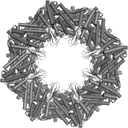
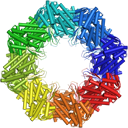
changed player graphics. found the evil AA -> bug should be fixed now.

diff --git a/Classes/screens/DeeWorldScene.cpp b/Classes/screens/DeeWorldScene.cpp
@@ -16,14 +16,15 @@ USING_NS_CC;
 #define MS_TIME_PLAYER_BLOCKED 0
 #define PLAYER_IMAGE "Player.png"
 #define BLADE_FILE "streak.png"
-#define MIN_AMINO_ACIDS 4
-#define MAX_AMINO_ACIDS 8
+#define MIN_AMINO_ACIDS 6
+#define MAX_AMINO_ACIDS 9
 #define MIN_SPEED 4
 #define MAX_SPEED 6
-#define AA_ADD_PROBABILITY 300 //Every n calls of tick, one additional amino acid is added (if withing MIN and MAX)
+#define AA_ADD_PROBABILITY 230 //Every n calls of tick, one additional amino acid is added (if withing MIN and MAX)
 #define AA_REMOVE_PROBABILITY 15 //Every n wall collisions, remove one amino acid.
 #define SOUND_DISABLED 0 // just for debugging purpose;  1 -> no sound
 #define TAG_PAUSE_LAYER 567 // arbitrary tag for pause menu - DO NOT MODIFY
+#define DEBUG_DRAW 0 // 1 enable debug draw, 0 disable
 
 using namespace cocos2d;
 
@@ -188,7 +189,9 @@ void DeeWorld::initBox2D() {
 	this->schedule(schedule_selector(DeeWorld::tick));
 
 	//debug draw made easy with helper class
-	this->addChild(B2DebugDrawLayer::create(_b2dWorld, PTM_RATIO), 9999);
+    if(DEBUG_DRAW > 0) {
+        this->addChild(B2DebugDrawLayer::create(_b2dWorld, PTM_RATIO), 9999);
+    }	
 
 	// Create contact listener
 	_b2dWorld->SetContactListener(this);
@@ -379,8 +382,7 @@ int DeeWorld::detectCorner() {
  * TODO: let the target drop into the screen from a random corner and start movement
  */
 void DeeWorld::addTarget() {
-	AminoAcid *sTarget = AminoAcid::create();
-    //CCLog("Create AA: %s", sTarget->getType());
+	AminoAcid *sTarget = AminoAcid::create();    
     HelperFunctions::resizseSprite(sTarget, 64, 0);
 	//Place target in a randomly picked corner.
 	int startX, startY;
@@ -573,7 +575,7 @@ void DeeWorld::keyBackClicked(void) {
  */
 void DeeWorld::BeginContact(b2Contact *contact) {
 	if(!isGamePaused()){
-		CCLog("BeginContact");
+		//CCLog("BeginContact");
 		b2Fixture* fixtureA = contact->GetFixtureA();
 		b2Fixture* fixtureB = contact->GetFixtureB();
 		AminoAcid* toRemove;

diff --git a/Classes/ui_elements/AminoAcid.cpp b/Classes/ui_elements/AminoAcid.cpp
@@ -28,7 +28,9 @@ AminoAcid* AminoAcid::create() {
  */
 AminoAcid* AminoAcid::create(char type){
     AminoAcid *pobSprite = new AminoAcid();
-    if (pobSprite && pobSprite->initWithFile(MatrixHelper::getImagePathForAcid(type))) {
+    const char *path = MatrixHelper::getImagePathForAcid(type);
+    CCLog("Create AA: %s", path);
+    if (pobSprite && pobSprite->initWithFile(path)) {
         pobSprite->type = type;
         pobSprite->setTag(1);
         pobSprite->setZOrder(3);

diff --git a/Classes/helper/MatrixHelper.cpp b/Classes/helper/MatrixHelper.cpp
@@ -59,7 +59,7 @@ const char * MatrixHelper::getImagePathForAcid(char c) {
             url = "LLeucine.png";
             break;
         case 'M':
-            url = "LMethione.png";
+            url = "LMethionine.png";
             break;
         case 'N':
             url = "LAsparagine.png";
